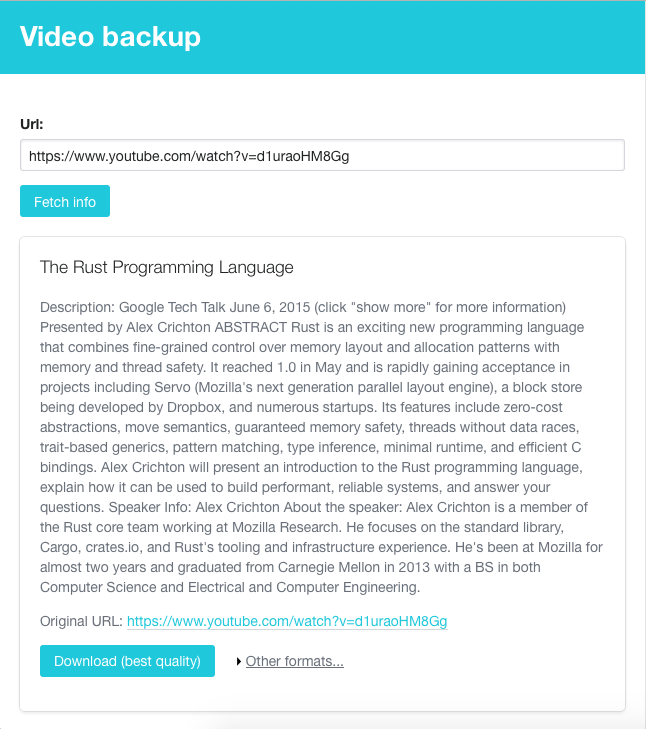
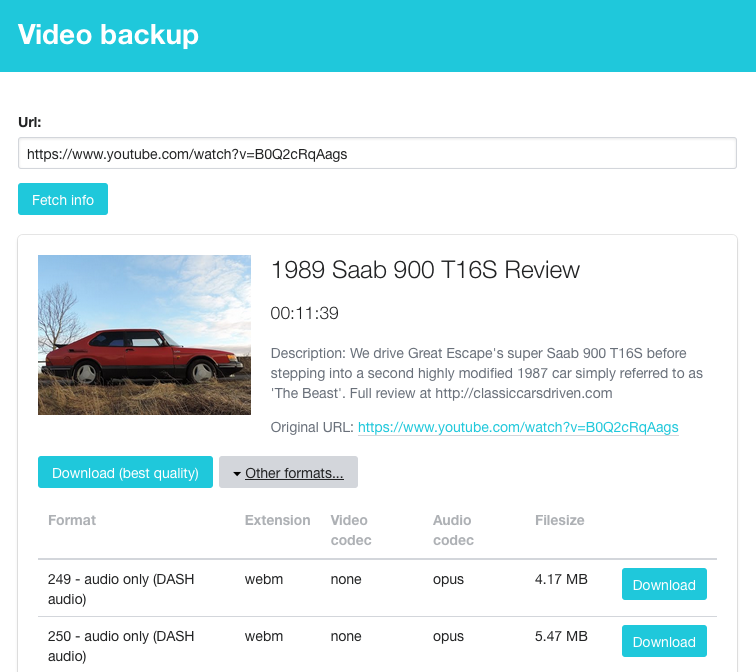
Add thumbnail image and video duration info

diff --git a/app/Download/index.tsx b/app/Download/index.tsx
@@ -37,6 +37,26 @@ export class DownloadView extends Component<{appState: DownloadViewState},
     e.preventDefault();
   }
 
+  createThumbnailUrl(maxres) {
+    return maxres.replace('maxresdefault.jpg',
+                          'hqdefault.jpg?custom=true&w=196&h=110');
+  }
+
+  /*
+   * Formats duration from seconds to HH:mm:ss
+   */
+  formatDuration(duration: number): String {
+    var hours   = Math.floor(duration / 3600);
+    var minutes = Math.floor((duration - (hours * 3600)) / 60);
+    var seconds = duration - (hours * 3600) - (minutes * 60);
+
+    if (hours < 10) { hours   = "0" + hours; }
+    if (minutes < 10) { minutes = "0" + minutes; }
+    if (seconds < 10) { seconds = "0" + seconds; }
+
+    return hours + ':' + minutes + ':' + seconds;
+  }
+
   render() {
     const { info, loadingMessage } = this.props.appState;
 
@@ -99,26 +119,34 @@ export class DownloadView extends Component<{appState: DownloadViewState},
               !loadingMessage && info ?
                 <div className="content">
                   <div className="box">
-                  <h4>{ info.title }</h4>
-
-                  <p><b>Description:</b> {info.description}</p>
-                  <p><b>Original URL:</b> <a
-                    target="_blank"
-                    href={info.webpage_url}>{info.webpage_url}</a></p>
-                  <p className="control">
-                    <button
-                       onClick={(e) => this.download(e) }
-                       className="download-view--button button is-primary">
-                        Download (best quality)</button>
-                    <button className={moreButtonClassNames}
-                            onClick={(e) => this.toggleMoreFormats(e)}
-                      >Other formats...</button>
-                  </p>
-                  <VideoFormats isCollapsed={this.state.isMoreCollapsed}
-                                formats={info.formats}
-                                download={(format) =>
-                                  this.props.appState.download(format)} />
-                </div></div> :
+                    <div className="columns">
+                      <div className="column is-one-third">
+                        <img src={ this.createThumbnailUrl(info.thumbnail) } />
+                      </div>
+                      <div className="column">
+                        <h2>{ info.title }</h2>
+                        <h4>{ this.formatDuration(info.duration) }</h4>
+                        <p><b>Description:</b> {info.description}</p>
+                        <p><b>Original URL:</b> <a
+                          target="_blank"
+                          href={info.webpage_url}>{info.webpage_url}</a></p>
+                      </div>
+                    </div>
+                    <p className="control">
+                      <button
+                         onClick={(e) => this.download(e) }
+                         className="download-view--button button is-primary">
+                          Download (best quality)</button>
+                      <button className={moreButtonClassNames}
+                              onClick={(e) => this.toggleMoreFormats(e)}
+                        >Other formats...</button>
+                    </p>
+                    <VideoFormats isCollapsed={this.state.isMoreCollapsed}
+                                  formats={info.formats}
+                                  download={(format) =>
+                                    this.props.appState.download(format)} />
+                  </div>
+                </div> :
                 null
             }
           </div>

diff --git a/app/Download/interfaces.tsx b/app/Download/interfaces.tsx
@@ -28,6 +28,12 @@ export interface VideoInfo {
   // Link to the original URL
   webpage_url: string,
 
+  // Duration of the video in seconds
+  duration: number,
+
+  // Thumbnail image's URL
+  thumbnail: string,
+
   // Available formats
   formats: Array<VideoFormat>
 }
